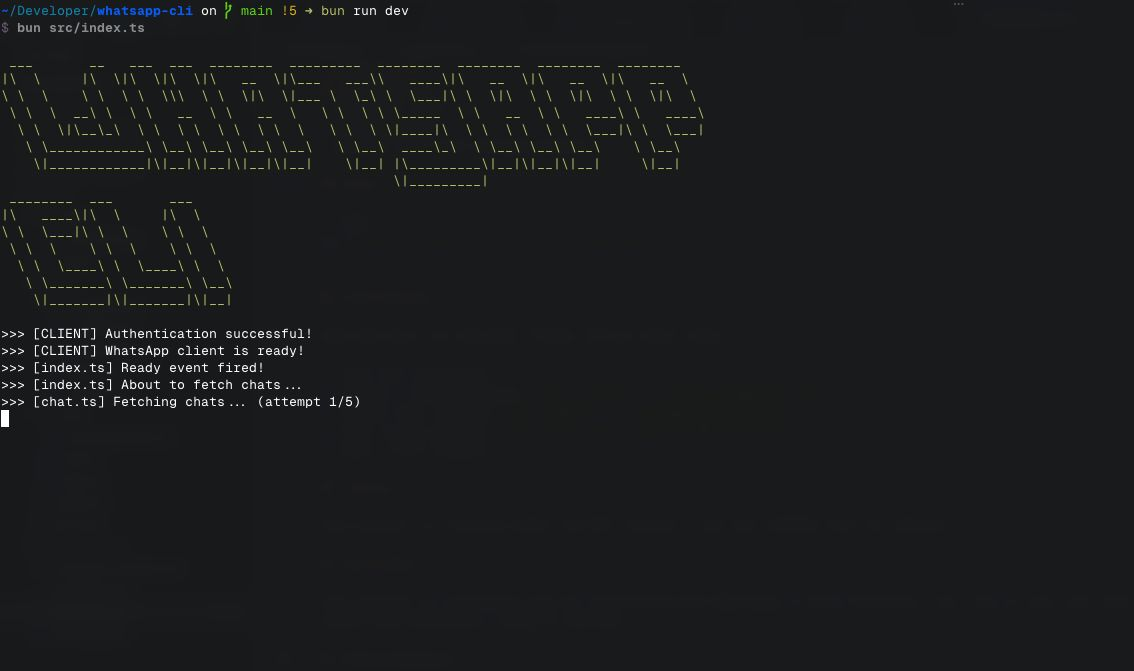
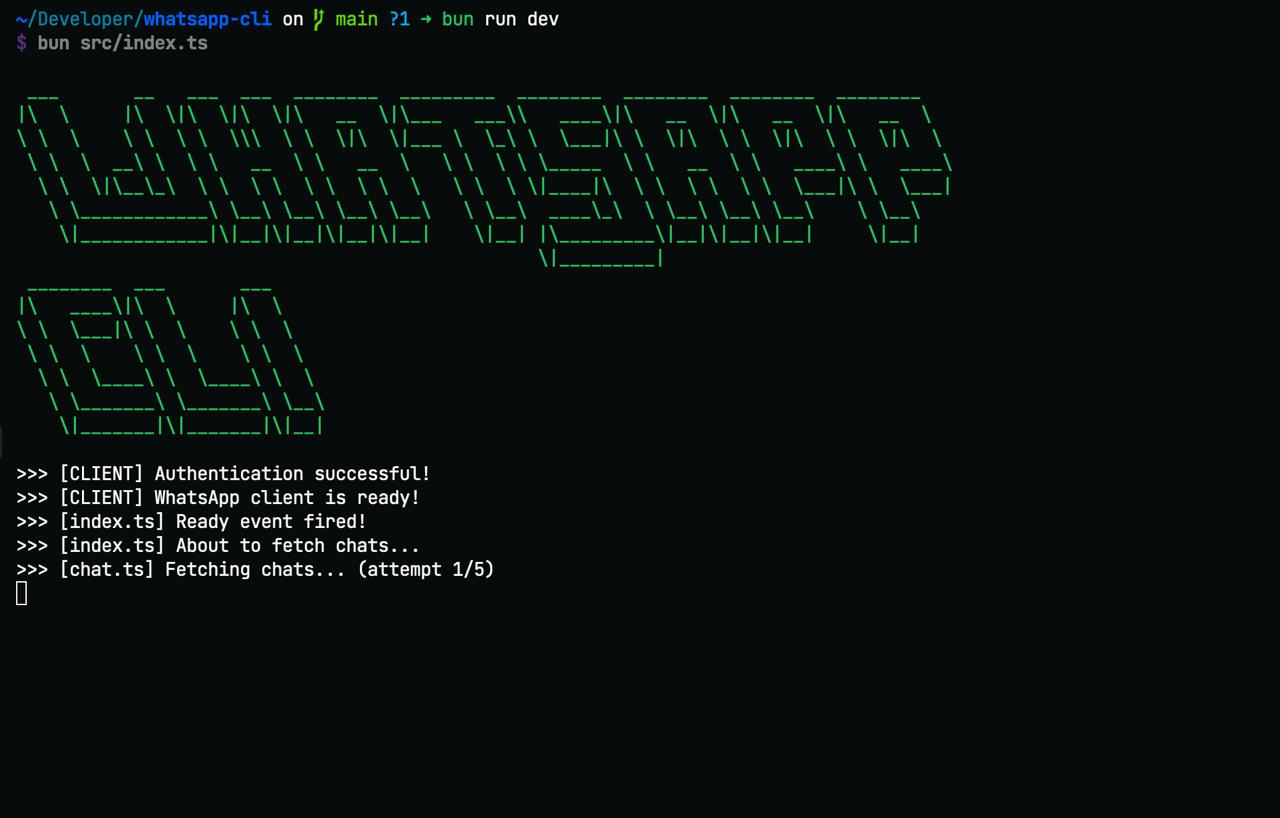
refactor: refectored files with prettier formatter

Changed region(s): [[0.0, 0.0894, 0.7407, 0.7452], [0.0, 0.0, 0.4321, 0.0596]]

diff --git a/src/ui/components/chatList.ts b/src/ui/components/chatList.ts
@@ -4,11 +4,25 @@ import {
   ScrollBoxRenderable,
   TextRenderable,
   InputRenderable,
+  BoxRenderable,
 } from "@opentui/core";
+import { Box, Text, createCliRenderer } from "@opentui/core";
 import type WAWebJS from "whatsapp-web.js";
 import { getChatMessages } from "../../utils/messageCache";
 
-function renderChatList(
+export async function convoInput(renderer: CliRenderer) {
+  const input = new InputRenderable(renderer, {
+    id: "convoInput",
+    width: "100%",
+    marginLeft: 5,
+    marginBottom: 2,
+    placeholder: "Enter your message..",
+  });
+
+  return input;
+}
+
+export function renderChatList(
   renderer: CliRenderer,
   chats: Awaited<ReturnType<WAWebJS.Client["getChats"]>>,
 ) {
@@ -27,7 +41,7 @@ function renderChatList(
   return selectComponent;
 }
 
-async function renderConvoList(
+export async function renderConvoList(
   renderer: CliRenderer,
   chats: Awaited<ReturnType<WAWebJS.Client["getChats"]>>,
   chatIndex: number,
@@ -85,7 +99,7 @@ async function renderConvoList(
   return { scrollComponent, convoListContent, messages };
 }
 
-async function updateConvoList(
+export async function updateConvoList(
   textComponent: TextRenderable,
   chat: WAWebJS.Chat,
   chatID: string,
@@ -101,17 +115,3 @@ async function updateConvoList(
 
   textComponent.content = formattedText;
 }
-
-async function convoInput(renderer: CliRenderer) {
-  const input = new InputRenderable(renderer, {
-    id: "convoInput",
-    width: "100%",
-    marginLeft: 5,
-    marginBottom: 2,
-    placeholder: "Enter your message..",
-  });
-
-  return input;
-}
-
-export { renderChatList, renderConvoList, updateConvoList, convoInput };

diff --git a/src/chat.ts b/src/chat.ts
@@ -4,7 +4,9 @@ import { addMessageToCache } from "./utils/messageCache";
 const MAX_RETRIES = 5;
 const TIMEOUT = 60000;
 
-async function listChats(wsp: WAWebJS.Client): Promise<WAWebJS.Chat[] | null> {
+export async function listChats(
+  wsp: WAWebJS.Client,
+): Promise<WAWebJS.Chat[] | null> {
   let retries = MAX_RETRIES;
 
   while (retries > 0) {
@@ -40,9 +42,10 @@ async function listChats(wsp: WAWebJS.Client): Promise<WAWebJS.Chat[] | null> {
   return null;
 }
 
-async function sendMessages(chat: WAWebJS.Chat, value: string): Promise<void> {
+export async function sendMessages(
+  chat: WAWebJS.Chat,
+  value: string,
+): Promise<void> {
   const sentMessage = await chat.sendMessage(value);
   await addMessageToCache(sentMessage, chat.id._serialized);
 }
-
-export { listChats, sendMessages };

diff --git a/src/client/whatsapp.ts b/src/client/whatsapp.ts
@@ -86,24 +86,24 @@ if (process.stdout.columns && process.stdout.columns < MIN_WIDTH) {
 }
 
 client.on("qr", (qrCode) => {
-  console.log(">>> [CLIENT] QR Code received, please scan...");
+  console.log(">>> [whatsapp.ts] QR Code received, please scan...");
   qr.generate(qrCode, { small: true });
 });
 
 client.on("authenticated", () => {
-  console.log(">>> [CLIENT] Authentication successful!");
+  console.log(">>> [whatsapp.ts] Authentication successful!");
 });
 
 client.on("ready", () => {
-  console.log(">>> [CLIENT] WhatsApp client is ready!");
+  console.log(">>> [whatsapp.ts] WhatsApp client is ready!");
 });
 
 client.on("disconnected", (reason) => {
-  console.log(">>> [CLIENT] Client disconnected:", reason);
+  console.log(">>> [whatsapp.ts] Client disconnected:", reason);
 });
 
 client.on("auth_failure", (message) => {
-  console.error(">>> [CLIENT] Authentication failure:", message);
+  console.error(">>> [whatsapp.ts] Authentication failure:", message);
 });
 
 export default client;

diff --git a/src/utils/messageCache.ts b/src/utils/messageCache.ts
@@ -4,7 +4,7 @@ let messageCache = new Map<string, WAWebJS.Message[]>();
 const MAX_CACHED_CHATS = 20;
 const MAX_MESSAGES_PER_CHAT = 200;
 
-function initializeChat(chatID: string, messages: WAWebJS.Message[]) {
+export function initializeChat(chatID: string, messages: WAWebJS.Message[]) {
   if (messageCache.size >= MAX_CACHED_CHATS && !messageCache.has(chatID)) {
     const oldestKey = messageCache.keys().next().value;
     if (oldestKey) messageCache.delete(oldestKey);
@@ -12,7 +12,7 @@ function initializeChat(chatID: string, messages: WAWebJS.Message[]) {
   messageCache.set(chatID, messages.slice(-MAX_MESSAGES_PER_CHAT));
 }
 
-function addMessageToCache(message: WAWebJS.Message, chatID: string) {
+export function addMessageToCache(message: WAWebJS.Message, chatID: string) {
   const existing = messageCache.get(chatID);
   if (existing) {
     existing.push(message);
@@ -24,8 +24,6 @@ function addMessageToCache(message: WAWebJS.Message, chatID: string) {
   }
 }
 
-function getChatMessages(chatID: string) {
+export function getChatMessages(chatID: string) {
   return messageCache.get(chatID) ?? [];
 }
-
-export { initializeChat, addMessageToCache, getChatMessages };

diff --git a/src/ui/components/keyboard.ts b/src/ui/components/keyboard.ts
@@ -11,7 +11,10 @@ type KeyboardContext = {
   chatListComponent: SelectRenderable;
 };
 
-function setupKeyboardInput(renderer: CliRenderer, ctx: KeyboardContext) {
+export function setupKeyboardInput(
+  renderer: CliRenderer,
+  ctx: KeyboardContext,
+) {
   const keyHandler = renderer.keyInput;
   keyHandler.on("keypress", async (key: KeyEvent) => {
     if (key.ctrl && key.name === "c") {
@@ -40,5 +43,3 @@ function setupKeyboardInput(renderer: CliRenderer, ctx: KeyboardContext) {
     }
   });
 }
-
-export { setupKeyboardInput };

diff --git a/src/ui/components/layout.ts b/src/ui/components/layout.ts
@@ -16,7 +16,7 @@ import { setupKeyboardInput } from "./keyboard.ts";
 import { sendMessages } from "../../chat.ts";
 import { initializeChat, addMessageToCache } from "../../utils/messageCache.ts";
 
-async function renderWhatsAppUI(
+export async function renderWhatsAppUI(
   wsp: WAWebJS.Client,
   renderer: CliRenderer,
   chats: WAWebJS.Chat[],
@@ -145,5 +145,3 @@ async function renderWhatsAppUI(
 
   setupKeyboardInput(renderer, { inputField, chatListComponent });
 }
-
-export { renderWhatsAppUI };

diff --git a/src/ui/screen.ts b/src/ui/screen.ts
@@ -1,6 +1,6 @@
 import { createCliRenderer } from "@opentui/core";
 
-async function createOpenTuiApp() {
+export async function createOpenTuiApp() {
   try {
     const renderer = await createCliRenderer({
       useMouse: true,
@@ -14,5 +14,3 @@ async function createOpenTuiApp() {
     throw error;
   }
 }
-
-export { createOpenTuiApp };